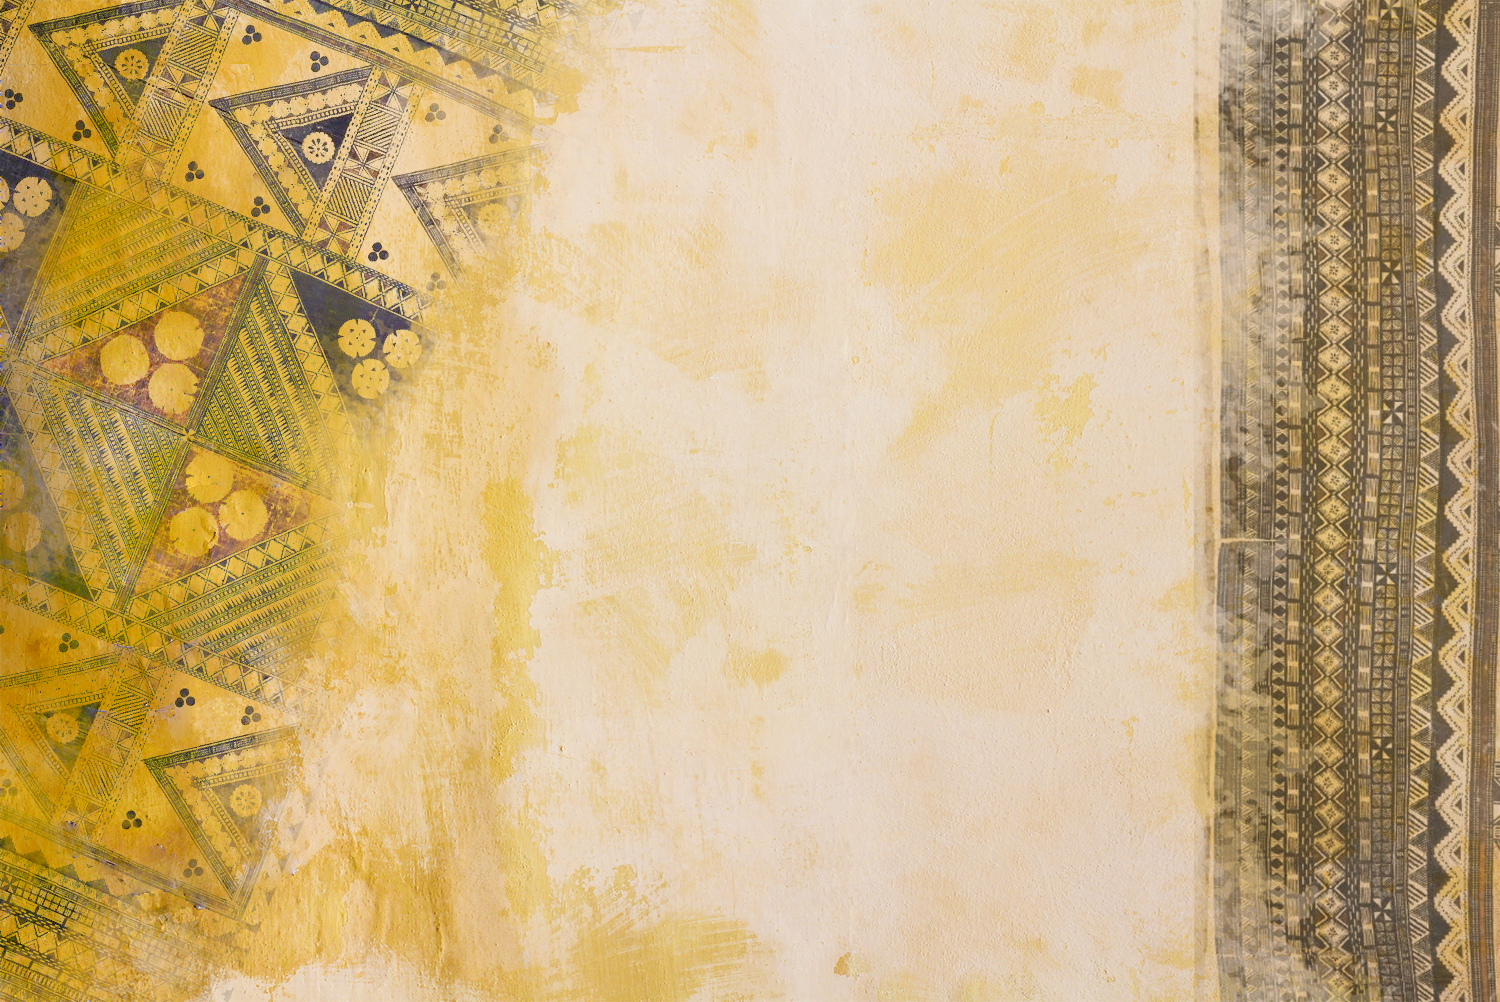
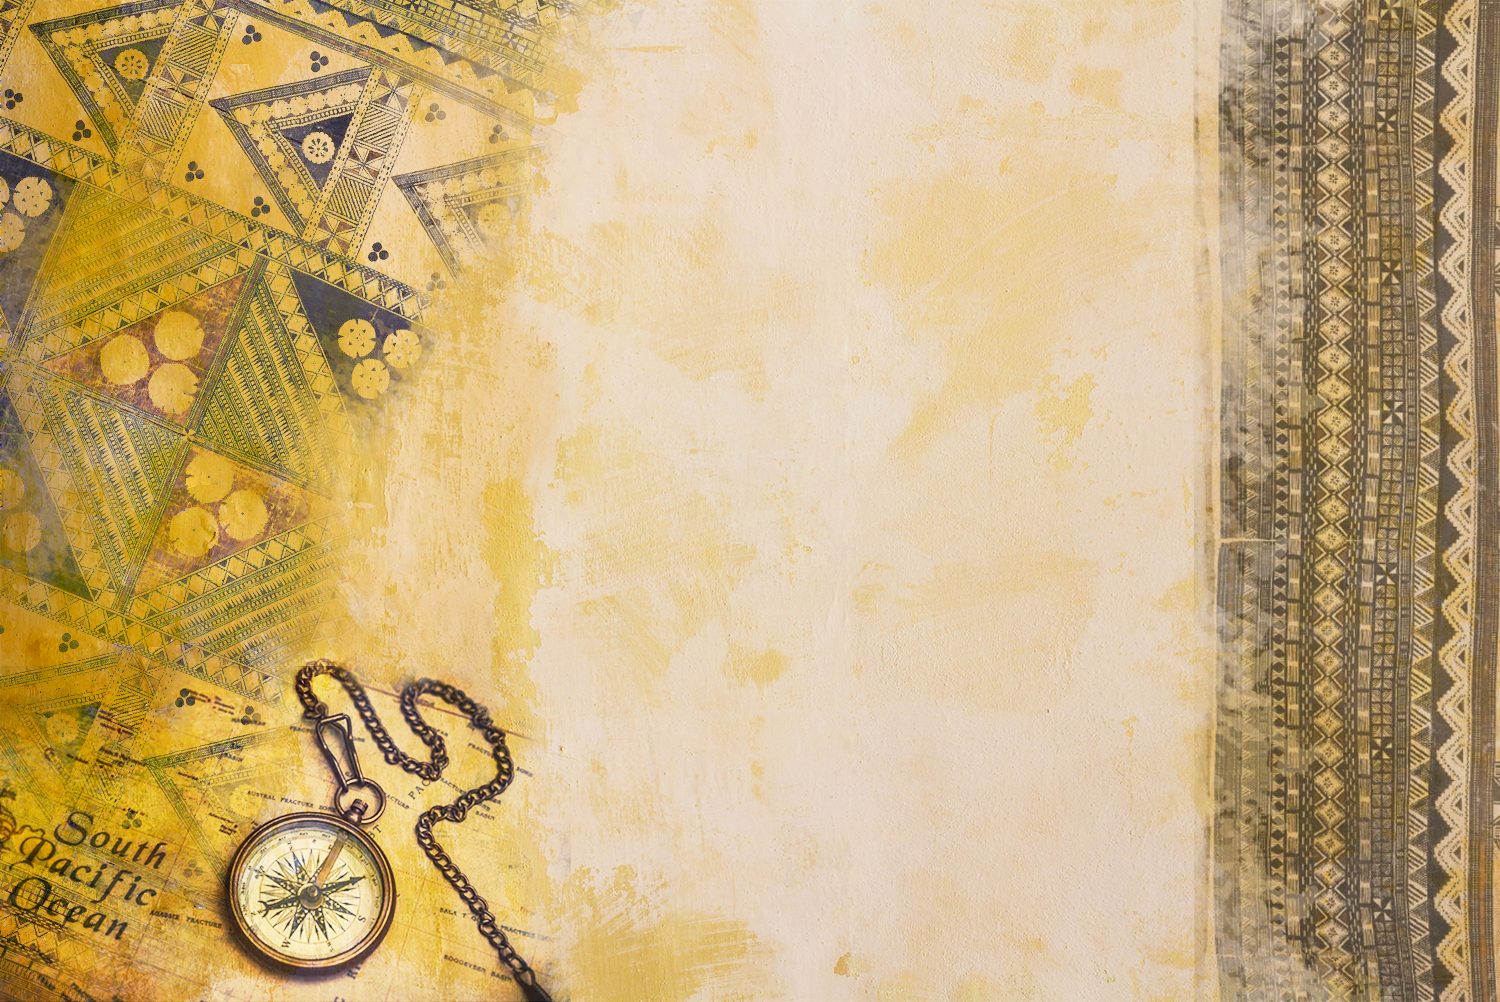
More images added and some Photoshop tweaks

Changed region(s): [[0.0, 0.6497, 0.3987, 1.0], [0.092, 0.5878, 0.1533, 0.6497]]

diff --git a/index.html b/index.html
@@ -70,22 +70,31 @@
     <img src="./Assets/tapaPrint.png" id="tapa-cloth">
     <h3 class="about-section center-align" id="about-section-header">A HIDDEN OASIS IN THE HEART OF STOWE, VT.</h3>
     <p class="about-section" id="about-body">Lorem ipsum dolor sit amet, consectetur adipiscing elit, sed do eiusmod tempor incididunt ut labore et dolore magna aliqua. Ligula ullamcorper malesuada proin libero nunc consequat. Aliquet risus feugiat in ante metus dictum at tempor. Lectus magna fringilla urna porttitor. Sit amet nisl purus in mollis nunc. Nunc mi ipsum faucibus vitae aliquet nec. Vestibulum rhoncus est pellentesque elit ullamcorper dignissim. Sit amet volutpat consequat mauris nunc congue nisi. Scelerisque varius morbi enim nunc. Sagittis aliquam malesuada bibendum arcu vitae elementum curabitur vitae. Urna nunc id cursus metus aliquam eleifend mi in. Id eu nisl nunc mi. Viverra vitae congue eu consequat ac. <br><br>
-        Lacinia quis vel eros donec ac odio tempor. Elit pellentesque habitant morbi tristique senectus et netus. Orci nulla pellentesque dignissim enim sit. Viverra adipiscing at in tellus integer feugiat scelerisque. Sed faucibus turpis in eu mi. Pellentesque habitant morbi tristique senectus et netus et malesuada. Justo donec enim diam vulputate ut pharetra. Scelerisque varius morbi enim nunc faucibus a pellentesque sit. Aliquam sem et tortor consequat id porta nibh venenatis cras. Augue mauris augue neque gravida in. Gravida quis blandit turpis cursus in. Et molestie ac feugiat sed lectus vestibulum mattis ullamcorper velit. Bibendum arcu vitae elementum curabitur vitae nunc sed velit. Leo integer malesuada nunc vel risus commodo viverra maecenas accumsan.</p>
-    <img src="./Assets/compass.png" class="responsve-img" id="compass" alt="Image of a gold compass">
+        Lacinia quis vel eros donec ac odio tempor. Elit pellentesque habitant morbi tristique senectus et netus. Orci nulla pellentesque dignissim enim sit. Viverra adipiscing at in tellus integer feugiat scelerisque. Sed faucibus turpis in eu mi. Pellentesque habitant morbi tristique senectus et net</p>
 </section>
 
 <section class="container cocktails-container">
     <div class="row">
         <div class="col s9">
-    <h3 class="cocktails-container" id="cocktails-header">COCKTAILS FROM BEYOND OUR SHORES</h3>
+    <h4 class="cocktails-container" id="cocktails-header">COCKTAILS FROM BEYOND OUR SHORES</h4>
     <p id="cocktail-intro">Lacinia quis vel eros donec ac odio tempor. Elit pellentesque habitant morbi tristique senectus et netus. Orci nulla pellentesque dignissim enim sit. Viverra adipiscing at in tellus integer feugiat scelerisque. Sed faucibus turpis in eu mi. Lacinia quis vel eros donec ac odio tempor. Elit pellentesque habitant morbi tristique senectus et netus. Orci nulla pellentesque dignissim enim sit. Viverra adipiscing at in tellus integer feugiat scelerisque. Sed faucibus turpis in eu mi. </p>
     </div>
-    <img  class="col-s3 cocktails-container" src="./Assets/totem-poles-1520641-resize.jpg" id="cocktail-header-image" alt="Image of a drink in a tiki mug">
-    <div class="col s6 offset-s6">
-        <h4> </h4>
-    </div>
+    <img  class="col-s3 cocktails-container" src="./Assets/totem-poles-1520641-resize.jpg" id="cocktail-header-image" alt>
+    <img class="col s4 cocktail-menu-image" src="./Assets/pexels-elif-tekkaya-4328777- resize.jpg" alt="tiki drink with a slice of watermelon" 
+    <div class="col-s6 offset-s6">
+        <h4 id="cocktail-list-header">Exotic Cocktails</h4>
+        <div class="col-s4 cocktail-list-left">
+            <h5 class="drink-title">Zombie</h5>
+            <p class="drink-title">(Don's Beachchomber, Los Angeles, 1934)
+
+            <p>What one rum can do, three can do better! Strong, dark, and mysterious.</p>
+            <i class="small material-icons">arrow_drop_up</i>
+            <i class="small material-icons">arrow_drop_up</i>
+            <i class="small material-icons">arrow_drop_up</i>
+            </p>
 </div>
-    <img 
+</div>
+</div>
 
 </section>
 

diff --git a/styles.css b/styles.css
@@ -53,6 +53,7 @@ background-color: black;
 color: var(--cream);
 }
 
+/* about section/ banner image */
 #tapa-cloth {
    position: relative;
    width:100%;
@@ -64,13 +65,15 @@ color: var(--cream);
 
 #about-section-header {
     font-weight: 700;
+    top: 50%;
 
 }
 
 #about-body {
-    bottom: 4%;
+    top: 80%;
     text-indent: 1cm;
     text-align:center;
+
 }
 
 .about-section {
@@ -82,17 +85,13 @@ color: var(--cream);
     margin-left: 5%;
 }
 
-#compass {
-    position: absolute;
-    left: 45%;
-    top: 105%;
-    right: 14%;
-}
+/* about section END */
 
+/* cocktail menu */
 .cocktails-container {
     color: var(--cream);
      font-family: 'Noto Serif Khojki', serif;
-     margin-top:5%;
+     margin-top:10%;
 }
 
 #cocktails-header {
@@ -106,10 +105,38 @@ color: var(--cream);
 
 #cocktail-header-image {
     object-fit: cover;
-    max-height: 400px;
+    max-height: 300px;
     
 }
 
+.cocktail-menu-image {
+    margin-top:2%;
+    border-radius: 10%;
+    opacity:85%;
+    object-fit:cover;
+    max-height:350px;
+}
+
+
+#cocktail-list-header {
+    margin-left: 55%;
+    margin-bottom:5%;
+    color:var(--cream);
+}
+
+.cocktail-list-left {
+    color:var(--soft-green);
+}
+
+.drink-title {
+    color:var(--mustard);
+}
+
+
+.small {
+    color: var(--mustard);
+    padding: auto1; 
+}
 /* hero-image slider styling & animation */
 
 #slider-container {
@@ -171,3 +198,10 @@ color: var(--cream);
     from {opacity: .4}
     to {opacity: 1}
 }
+
+
+
+/*  todo:
+Design for desktop displays from 1024×768 through 1920×1080
+Design for mobile displays from 360×640 through 414×896
+Design for tablet displays from 601×962 through 1280×800 */
